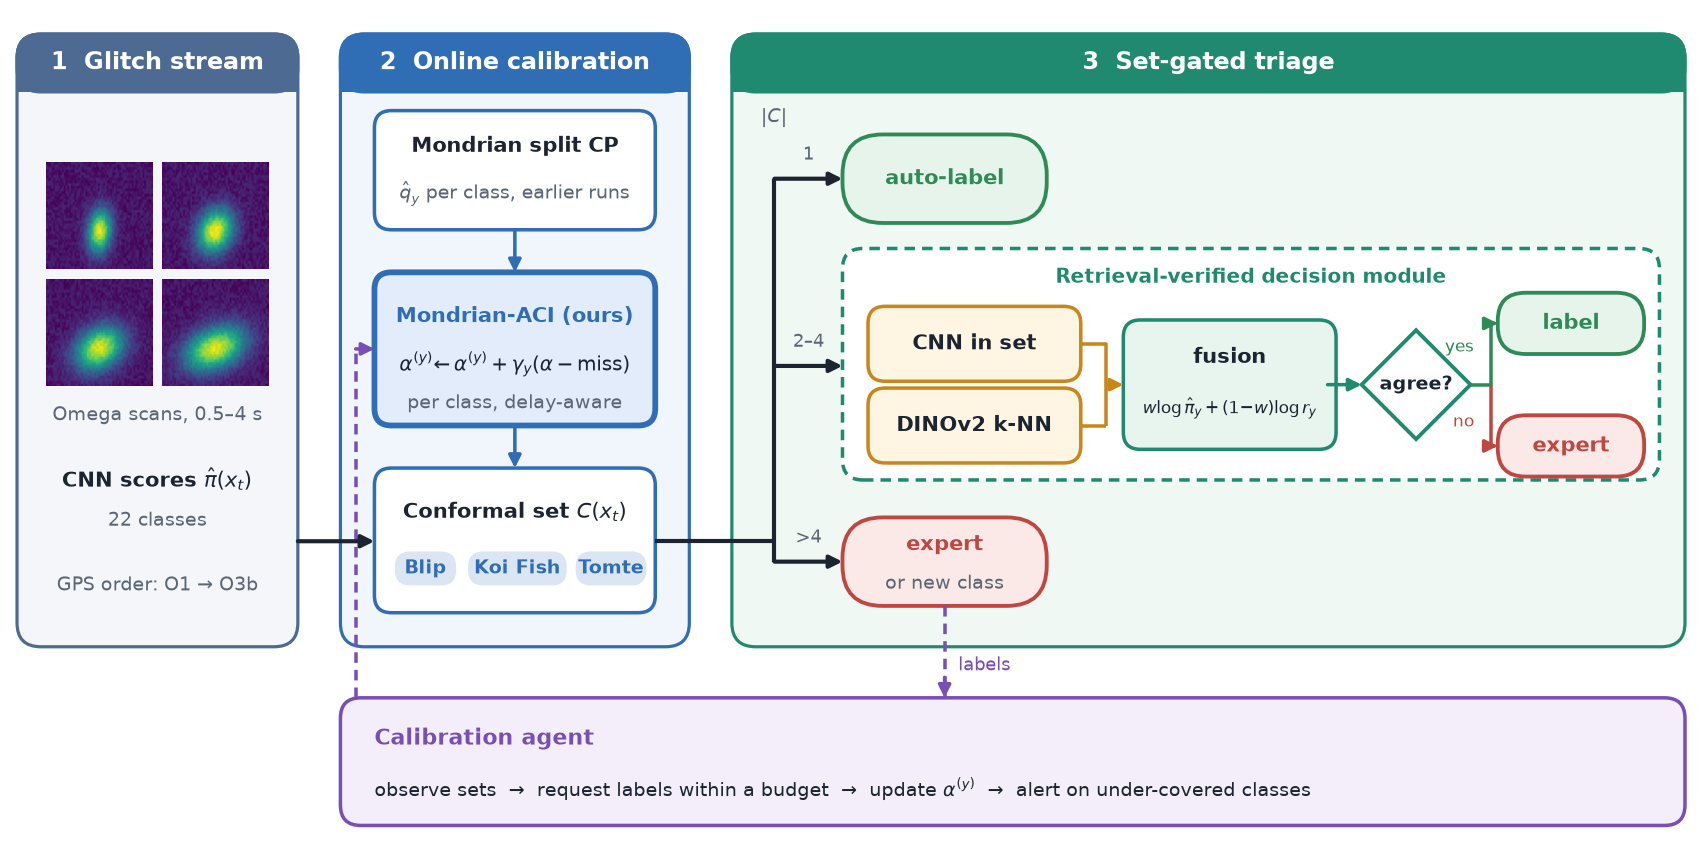
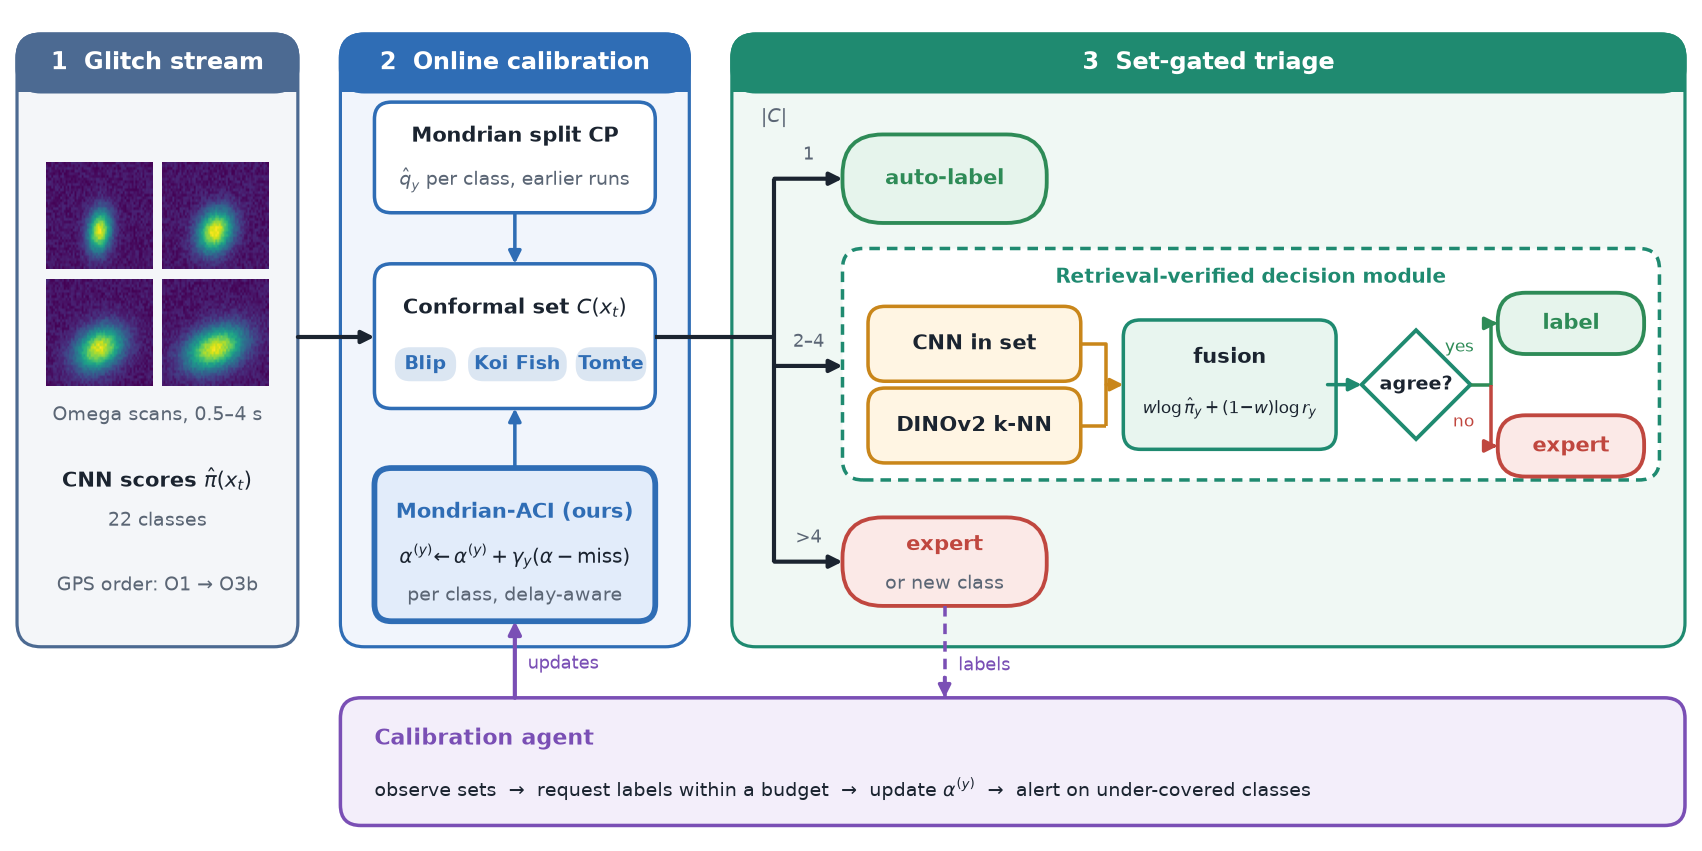
Pipeline figure: straight agent connector

Changed region(s): [[0.1868, 0.3055, 0.436, 0.7944], [0.218, 0.0917, 0.4048, 0.275]]

diff --git a/scripts/make_arch.py b/scripts/make_arch.py
@@ -51,21 +51,22 @@ t(9.25, 21.8, "CNN scores $\\hat\\pi(x_t)$", w="bold"); t(9.25, 19.4, "22 classe
 t(9.25, 15.6, "GPS order: O1 → O3b", fs=5.9, c=MUTE)
 
 # ---------------- 2: calibration ----------------
-box(22, 36.5, 16.5, 7.0, C["cal"])
-t(30.25, 41.4, "Mondrian split CP", w="bold"); t(30.25, 38.6, "$\\hat q_y$ per class, earlier runs", fs=5.9, c=MUTE)
-box(22, 25.0, 16.5, 9.0, C["cal"], fc="#E2ECFA", lw=1.8)
-t(30.25, 31.4, "Mondrian-ACI (ours)", w="bold", c=C["cal"])
-t(30.25, 28.6, "$\\alpha^{(y)}\\!\\leftarrow\\alpha^{(y)}+\\gamma_y(\\alpha-\\mathrm{miss})$", fs=6.2)
-t(30.25, 26.3, "per class, delay-aware", fs=5.9, c=MUTE)
-box(22, 14.0, 16.5, 8.5, C["cal"])
-t(30.25, 19.9, "Conformal set $C(x_t)$", w="bold")
-chip(25.0, 16.6, "Blip", C["cal"]); chip(30.4, 16.6, "Koi Fish", C["cal"]); chip(35.9, 16.6, "Tomte", C["cal"])
-arrow((30.25, 36.5), (30.25, 34.0), c=C["cal"]); arrow((30.25, 25.0), (30.25, 22.5), c=C["cal"])
-arrow((17.5, 18.2), (22, 18.2), lw=1.3)
+# order: split CP (top) -> conformal set (middle) <- Mondrian-ACI (bottom, fed by the agent band below)
+box(22, 37.5, 16.5, 6.5, C["cal"])
+t(30.25, 42.0, "Mondrian split CP", w="bold"); t(30.25, 39.4, "$\\hat q_y$ per class, earlier runs", fs=5.9, c=MUTE)
+box(22, 26.0, 16.5, 8.5, C["cal"])
+t(30.25, 31.9, "Conformal set $C(x_t)$", w="bold")
+chip(25.0, 28.6, "Blip", C["cal"]); chip(30.4, 28.6, "Koi Fish", C["cal"]); chip(35.9, 28.6, "Tomte", C["cal"])
+box(22, 13.5, 16.5, 9.0, C["cal"], fc="#E2ECFA", lw=1.8)
+t(30.25, 19.9, "Mondrian-ACI (ours)", w="bold", c=C["cal"])
+t(30.25, 17.3, "$\\alpha^{(y)}\\!\\leftarrow\\alpha^{(y)}+\\gamma_y(\\alpha-\\mathrm{miss})$", fs=6.2)
+t(30.25, 15.0, "per class, delay-aware", fs=5.8, c=MUTE)
+arrow((30.25, 37.5), (30.25, 34.5), c=C["cal"]); arrow((30.25, 22.5), (30.25, 26.0), c=C["cal"])
+arrow((17.5, 30.2), (22, 30.2), lw=1.3)
 
 # ---------------- 3: routing by set size (vertical bus, horizontal branches) ----------------
 BX = 45.5; YT, YM, YB = 39.5, 28.5, 17.0
-line([38.5, BX], [18.2, 18.2], lw=1.3); line([BX, BX], [YB, YT], lw=1.3)
+line([38.5, BX], [30.2, 30.2], lw=1.3); line([BX, BX], [YB, YT], lw=1.3)
 t(BX, YT + 3.6, "$|C|$", fs=6.0, c=MUTE, w="bold")
 for y, lab in [(YT, "1"), (YM, "2–4"), (YB, ">4")]:
     arrow((BX, y), (49.5, y), lw=1.3); t(47.5, y + 1.4, lab, fs=5.6, c=MUTE)
@@ -99,7 +100,7 @@ t(22.0, 3.6, "observe sets  →  request labels within a budget  →  update $\\
 line([55.5, 55.5], [YB - 2.6, 9.0], c=C["agent"], ls=(0, (3, 2))); arrow((55.5, 10.2), (55.5, 9.0), c=C["agent"])
 t(56.3, 10.9, "labels", fs=5.6, c=C["agent"], ha="left")
 # agent updates Mondrian-ACI (vertical line in the left margin of panel 2)
-line([20.9, 20.9], [9.0, 29.5], c=C["agent"], ls=(0, (3, 2))); arrow((20.9, 29.5), (22.0, 29.5), c=C["agent"])
+arrow((30.25, 9.0), (30.25, 13.5), c=C["agent"], lw=1.3); t(31.0, 11.0, "updates", fs=5.6, c=C["agent"], ha="left")
 
 fig.savefig(os.path.join(OUT, "fig_pipeline.pdf")); fig.savefig(os.path.join(OUT, "fig_pipeline.png"), dpi=230)
 print("wrote figs/fig_pipeline.pdf/.png")
